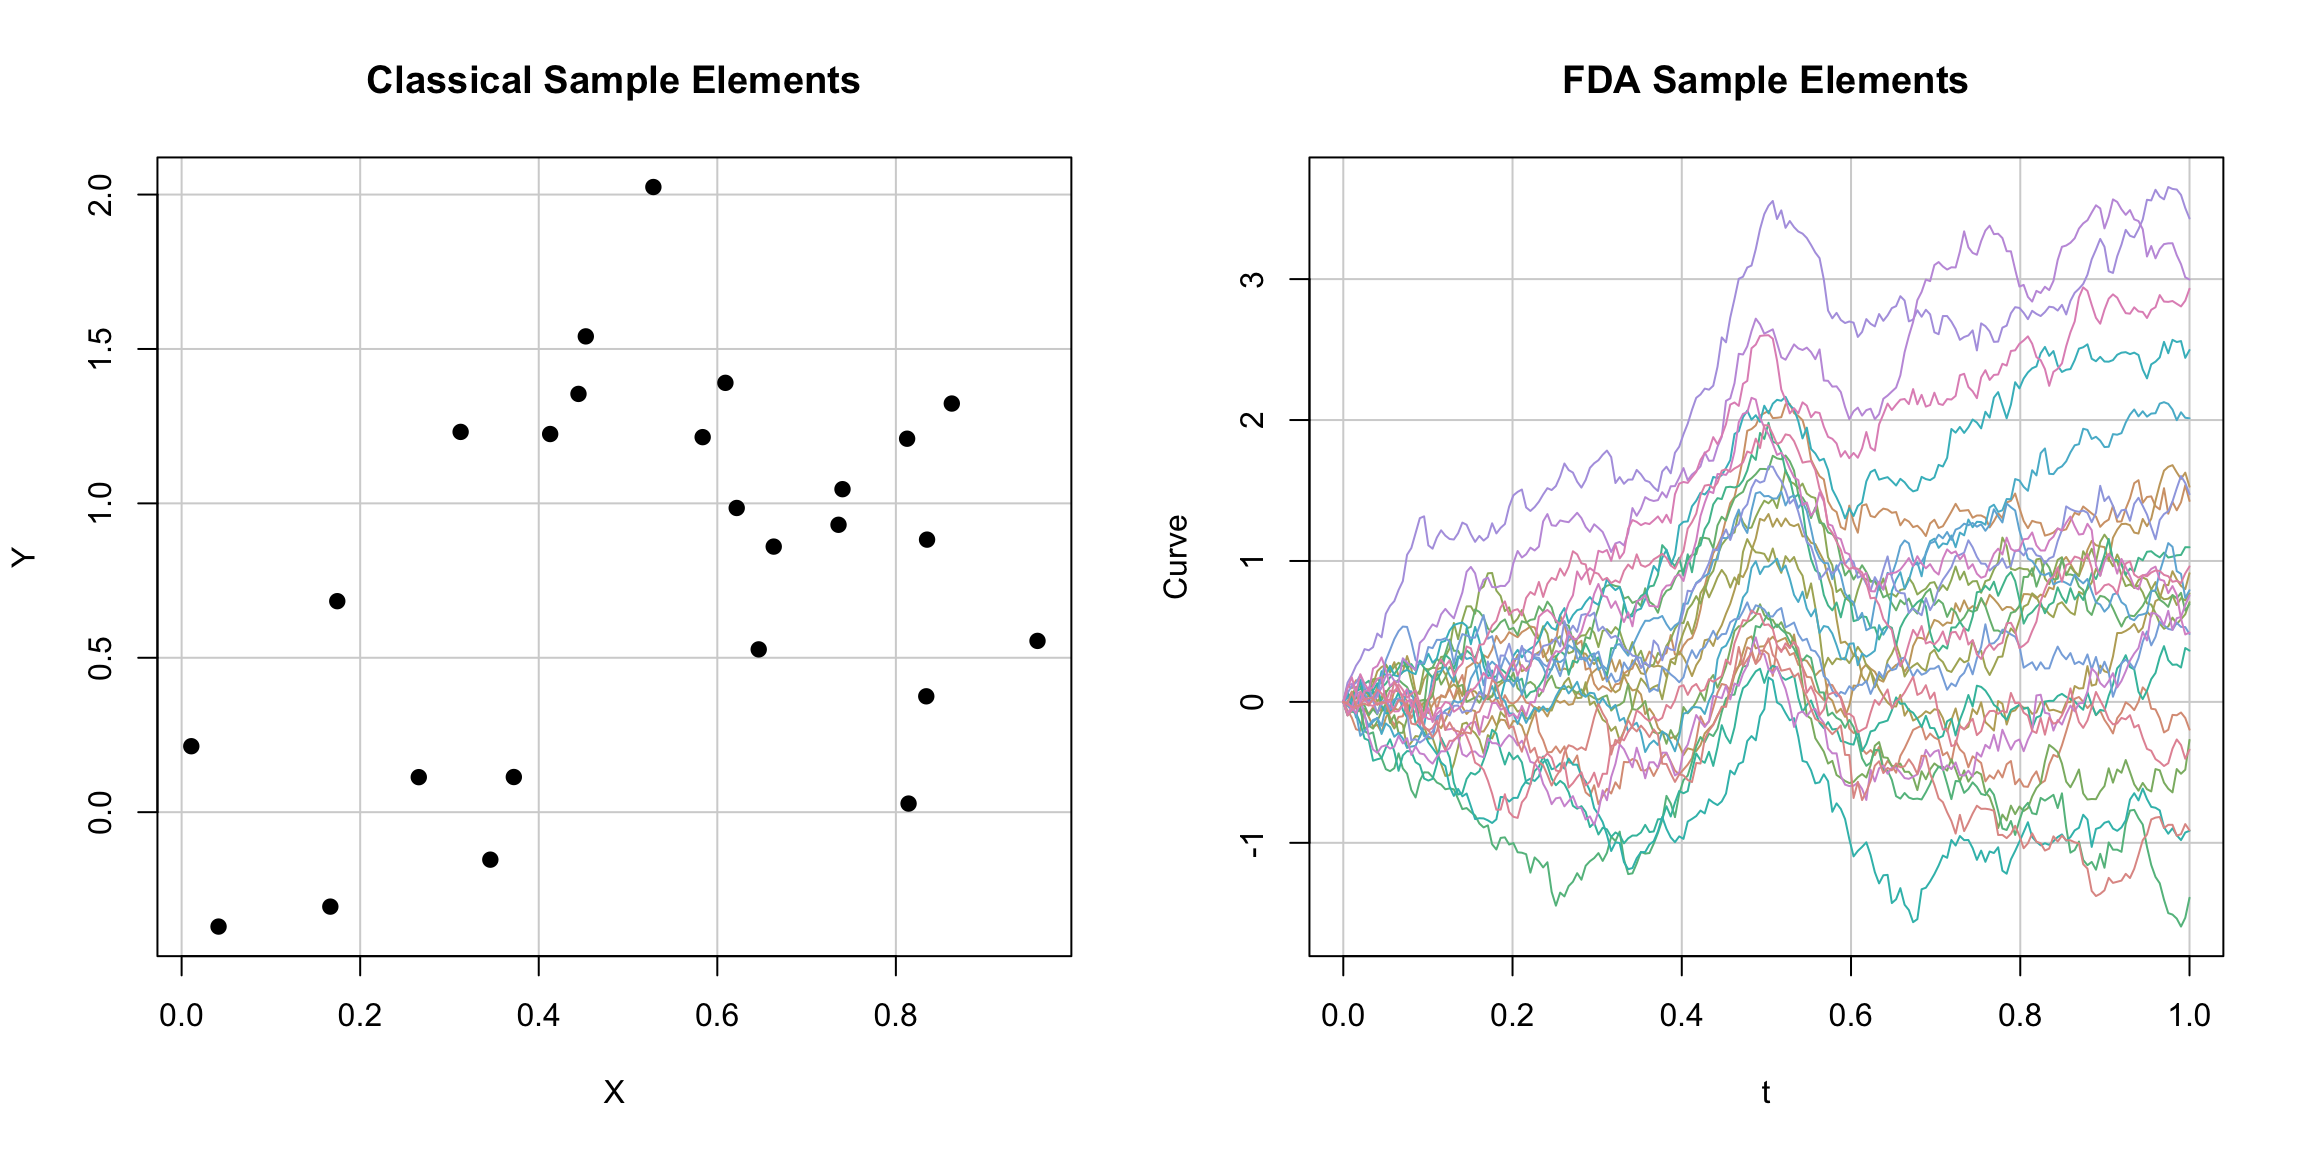
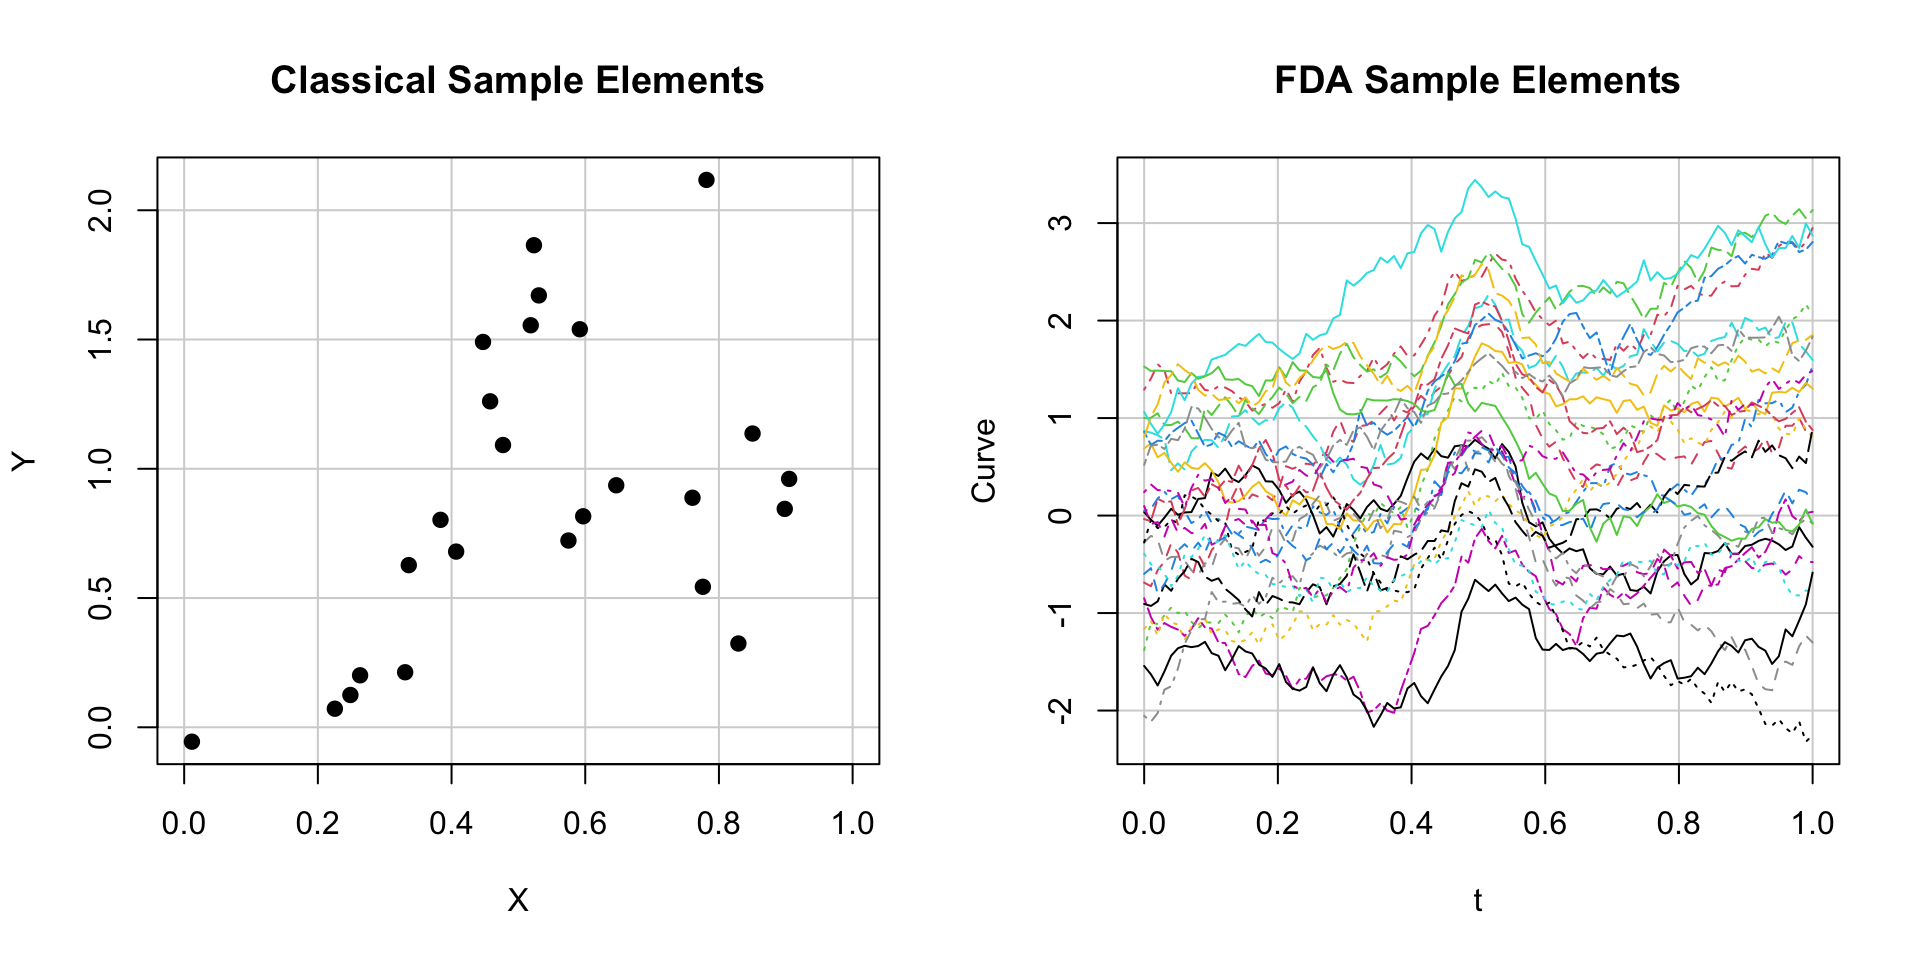
Match historical FDA example and update talk date

diff --git a/index-speaker.html b/index-speaker.html
@@ -11,8 +11,8 @@
 
   <meta name="author" content="Valentin Patilea^\dagger">
   <meta name="author" content="Jeffrey S. Racine^\ddagger">
-  <meta name="dcterms.date" content="2026-06-24">
-  <title>quarto-input95a54211c46f6bfe</title>
+  <meta name="dcterms.date" content="2026-08-21">
+  <title>quarto-inputad9c3550b399e108</title>
   <meta name="apple-mobile-web-app-capable" content="yes">
   <meta name="apple-mobile-web-app-status-bar-style" content="black-translucent">
   <meta name="viewport" content="width=device-width, initial-scale=1.0, maximum-scale=1.0, user-scalable=no, minimal-ui">
@@ -245,7 +245,7 @@ Jeffrey S. Racine<span class="math inline">\(^\ddagger\)</span>
     </div>
 </div>
 
-  <p class="date">2026-06-24</p>
+  <p class="date">2026-08-21</p>
 </section>
 <section>
 <section id="overview" class="title-slide slide level1 center">
@@ -295,10 +295,10 @@ Y_{ij} = X_i(T_{ij}) + \varepsilon_{ij},
 <section id="classical-versus-functional-data-2" class="slide level2 center">
 <h2>Classical Versus Functional Data</h2>
 
-<img data-src="index_files/figure-revealjs/fig-sampleelements-1.png" class="quarto-figure quarto-figure-center r-stretch" width="1152" id="fig-sampleelements"><p class="caption">
+<img data-src="index_files/figure-revealjs/fig-sampleelements-1.png" class="quarto-figure quarto-figure-center r-stretch" width="960" id="fig-sampleelements"><p class="caption">
 Figure&nbsp;1: Classical Versus Functional Sample Elements (<span class="math inline">\(N=25\)</span>)
 </p><aside class="notes">
-<p>The left panel contains finite-dimensional observations. Each colored line in the right panel is one random sample element: an entire latent trajectory. This is a different sampling object, not simply a regression curve fitted to the left-hand points.</p>
+<p>The left panel contains finite-dimensional observations. Each colored line in the right panel is one random sample element: an entire latent trajectory. This is a different sampling object, not simply a regression curve fitted to the left-hand points. This faithfully uses the historical example’s <span class="math inline">\(N=25\)</span>, <span class="math inline">\(M=1\)</span>, 100-point grid, <span class="math inline">\(\sigma=0.5\)</span>, <span class="math inline">\(\tau=1\)</span>, and <span class="math inline">\(L=1\)</span> parameterization; each trajectory includes an independent <span class="math inline">\(N(0,1)\)</span> curve-specific random intercept.</p>
 <style type="text/css">
         span.MJX_Assistive_MathML {
           position:absolute!important;

diff --git a/index.html b/index.html
@@ -11,8 +11,8 @@
 
   <meta name="author" content="Valentin Patilea^\dagger">
   <meta name="author" content="Jeffrey S. Racine^\ddagger">
-  <meta name="dcterms.date" content="2026-06-24">
-  <title>quarto-input95a54211c46f6bfe</title>
+  <meta name="dcterms.date" content="2026-08-21">
+  <title>quarto-inputad9c3550b399e108</title>
   <meta name="apple-mobile-web-app-capable" content="yes">
   <meta name="apple-mobile-web-app-status-bar-style" content="black-translucent">
   <meta name="viewport" content="width=device-width, initial-scale=1.0, maximum-scale=1.0, user-scalable=no, minimal-ui">
@@ -245,7 +245,7 @@ Jeffrey S. Racine<span class="math inline">\(^\ddagger\)</span>
     </div>
 </div>
 
-  <p class="date">2026-06-24</p>
+  <p class="date">2026-08-21</p>
 </section>
 <section>
 <section id="overview" class="title-slide slide level1 center">
@@ -295,10 +295,10 @@ Y_{ij} = X_i(T_{ij}) + \varepsilon_{ij},
 <section id="classical-versus-functional-data-2" class="slide level2 center">
 <h2>Classical Versus Functional Data</h2>
 
-<img data-src="index_files/figure-revealjs/fig-sampleelements-1.png" class="quarto-figure quarto-figure-center r-stretch" width="1152" id="fig-sampleelements"><p class="caption">
+<img data-src="index_files/figure-revealjs/fig-sampleelements-1.png" class="quarto-figure quarto-figure-center r-stretch" width="960" id="fig-sampleelements"><p class="caption">
 Figure&nbsp;1: Classical Versus Functional Sample Elements (<span class="math inline">\(N=25\)</span>)
 </p><aside class="notes">
-<p>The left panel contains finite-dimensional observations. Each colored line in the right panel is one random sample element: an entire latent trajectory. This is a different sampling object, not simply a regression curve fitted to the left-hand points.</p>
+<p>The left panel contains finite-dimensional observations. Each colored line in the right panel is one random sample element: an entire latent trajectory. This is a different sampling object, not simply a regression curve fitted to the left-hand points. This faithfully uses the historical example’s <span class="math inline">\(N=25\)</span>, <span class="math inline">\(M=1\)</span>, 100-point grid, <span class="math inline">\(\sigma=0.5\)</span>, <span class="math inline">\(\tau=1\)</span>, and <span class="math inline">\(L=1\)</span> parameterization; each trajectory includes an independent <span class="math inline">\(N(0,1)\)</span> curve-specific random intercept.</p>
 <style type="text/css">
         span.MJX_Assistive_MathML {
           position:absolute!important;
